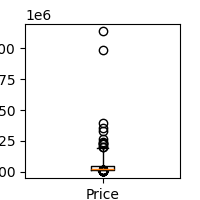
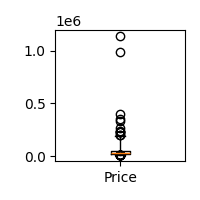
small fixes

Changed region(s): [[0.0, 0.03, 0.93, 1.0], [0.48, 0.21, 0.54, 0.3], [0.57, 0.24, 0.63, 0.3]]

diff --git a/scripts/paper_plots.py b/scripts/paper_plots.py
@@ -23,13 +23,15 @@ clean_data = clean_data.drop(columns=["Verdict"])
 
 fig, ax = plt.subplots(1, 1, figsize=(2, 2))
 _ = adjusted_boxplot(clean_data["Price"], ax=ax)
+fig.tight_layout()
 fig.show()
 plt.savefig(outputfolder / "figure 1a - price boxplot.png")
 
 fig, ax = plt.subplots(1, 1, figsize=(4, 2))
 clean_data["Price"].hist(bins=20, ax=ax)
+fig.tight_layout()
 fig.show()
-plt.savefig(outputfolder / "figure 1bb - price histogram.png")
+plt.savefig(outputfolder / "figure 1b - price histogram.png")
 
 price_transformer = RobustPowerTransformer(method="auto").fit(clean_data["Price"])
 
@@ -77,7 +79,7 @@ pca = ROBPCA().fit(scaled_data)
 score_distances, orthogonal_distances, score_cutoff, od_cutoff = pca.plot_outlier_map(
     scaled_data, return_distances=True
 )
-plt.show()
+fig.show()
 plt.savefig(outputfolder / "figure 5 - pca outlier map.png")
 
 X = clean_data2.drop(columns=["Price", "Price_transformed"])
@@ -87,7 +89,7 @@ estimator = MMRegression().fit(X, y)
 estimator.model.coef_
 
 resid, std_resid, distances, vt, ht = estimator.outlier_map(X, y.to_numpy(), return_data=True)
-plt.show()
+fig.show()
 plt.savefig(outputfolder / "figure 6 - mm regression outlier map.png")
 
 
@@ -96,10 +98,10 @@ ddc = DDC().fit(clean_data.drop(columns=["Price"]))
 row_indices = np.array(
     [11, 41, 55, 73, 81, 94, 99, 135, 150, 164, 176, 198, 209, 215, 234, 241, 277]
 )
-ax = ddc.cellmap(clean_data.drop(columns=["Price"]), figsize=(8, 10), row_zoom=row_indices)
+ax = ddc.cellmap(clean_data.drop(columns=["Price"]), figsize=(10, 13), row_zoom=row_indices)
 cars = data.data.apply(lambda row: f"{row['Make']} {row['Model']}", axis=1).tolist()
 ax.set_yticklabels([cars[i] for i in row_indices], rotation=0)
-plt.show()
+fig.show()
 plt.savefig(outputfolder / "figure 7 - ddc cellmap zoom.png")
 
 
@@ -124,51 +126,51 @@ cellmcd.fit(clean_data.values)
 
 variable = 0
 variable_name = "Price"
-cellmcd.cell_MCD_plot(
+fig = cellmcd.cell_MCD_plot(
     variable=variable,
     variable_name=variable_name,
     row_names=car_models,
     plottype="indexplot",
     annotation_quantile=0.9999999,
 )
-plt.show()
+fig.show()
 plt.savefig(outputfolder / "figure 8a - cellmcd indexplot.png")
 
 
-cellmcd.cell_MCD_plot(
+fig = cellmcd.cell_MCD_plot(
     variable=variable,
     variable_name=variable_name,
     row_names=car_models,
     plottype="residuals_vs_variable",
     annotation_quantile=0.9999999,
 )
-plt.show()
+fig.show()
 plt.savefig(outputfolder / "figure 8b - cellmcd residuals vs variable.png")
 
-cellmcd.cell_MCD_plot(
+fig = cellmcd.cell_MCD_plot(
     variable=variable,
     variable_name=variable_name,
     row_names=car_models,
     plottype="residuals_vs_predictions",
     annotation_quantile=0.9999999,
 )
-plt.show()
+fig.show()
 plt.savefig(outputfolder / "figure 8c - cellmcd residuals vs predictions.png")
 
-cellmcd.cell_MCD_plot(
+fig = cellmcd.cell_MCD_plot(
     variable=variable,
     variable_name=variable_name,
     row_names=car_models,
     plottype="variable_vs_predictions",
     annotation_quantile=0.99999,
 )
-plt.show()
+fig.show()
 plt.savefig(outputfolder / "figure 8d - cellmcd variable vs predictions.png")
 
 
 second_variable = 4
 second_variable_name = "Acceleration"
-cellmcd.cell_MCD_plot(
+fig = cellmcd.cell_MCD_plot(
     second_variable,
     second_variable_name,
     car_models,
@@ -177,5 +179,5 @@ cellmcd.cell_MCD_plot(
     "bivariate",
     annotation_quantile=0.999999,
 )
-plt.show()
+fig.show()
 plt.savefig(outputfolder / "figure 9 - cellmcd bivariate.png")
